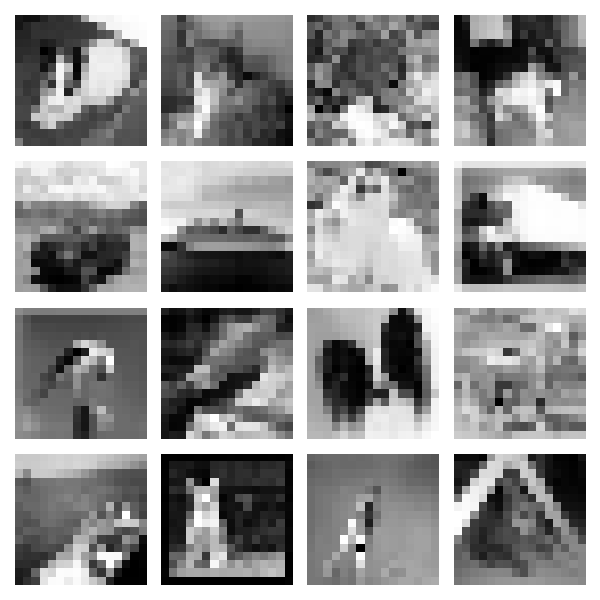
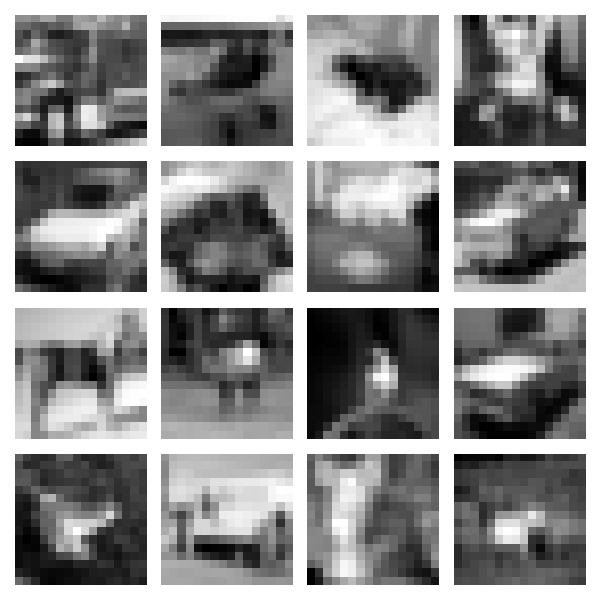
NRT Load: adding the class names to the cifar10 dataset for future fine tuning usecases

diff --git a/NRT/NRT_load/test.py b/NRT/NRT_load/test.py
@@ -67,6 +67,22 @@ def save_image_grid(images, path, n=16):
     plt.close()
 
 
+def assert_cifar10_class_names(class_names):
+    expected = [
+        "airplane",
+        "automobile",
+        "bird",
+        "cat",
+        "deer",
+        "dog",
+        "frog",
+        "horse",
+        "ship",
+        "truck",
+    ]
+    assert isinstance(class_names, list)
+    assert class_names == expected
+
 # ===========================
 # NRT Tests
 # ===========================
@@ -126,14 +142,17 @@ def test_cifar10():
     loader = load_cifar10(
         batch_size=32, 
         downsample=(16,16), 
-        flatten=True, 
         grayscale=True,
-        normalize=False
+        normalize=False,
+        flatten=True, 
+        subset_size=100
     )
     X, y = next(iter(loader))
 
     # Verify shape
     assert X.shape == (32, 16*16)
+    assert y.shape == (32,)
+    assert_cifar10_class_names(loader.class_names)
     # Show a few label values
     print("Sample labels:", y[:5].numpy())
 
@@ -147,12 +166,15 @@ def test_cifar10():
         downsample=(32,32), 
         flatten=True,
         grayscale=False, 
-        normalize=False
+        normalize=False,
+        subset_size=100
     )
     X, y = next(iter(loader))
 
     # Verify shape 
     assert X.shape == (32, 3*32*32)
+    assert y.shape == (32,)
+    assert_cifar10_class_names(loader.class_names)
     # Verify pixel value range
     assert X.min() >= 0.0 and X.max() <= 1.0
     
@@ -166,12 +188,15 @@ def test_cifar10():
         downsample=(16,16), 
         flatten=False,
         grayscale=False, 
-        normalize=True
+        normalize=True, # normalize to [-1, 1] so plots are darker if output is return back to original range for visualization
+        subset_size=100
     )
     X, y = next(iter(loader))
 
     # Verify shape
     assert X.shape == (32, 3, 16, 16)
+    assert y.shape == (32,)
+    assert_cifar10_class_names(loader.class_names)
     # Verify pixel value range    assert X.min() >= -1.0 and X.max() <= 1.0
     assert X.min() >= -1.0 and X.max() <= 1.0
 
@@ -179,7 +204,6 @@ def test_cifar10():
     save_image_grid(images, os.path.join(CIFAR_OUTPUT_DIR,"cifar_rgb_normalized.png"), 16)
 
     print("CIFAR10 RGB Normalized OK")
-
 
 
 # ===========================
@@ -198,5 +222,4 @@ if __name__ == "__main__":
     test_cifar10()
 
     clear_data_dir()
-
     print("\nAll dataset NRT tests passed")
